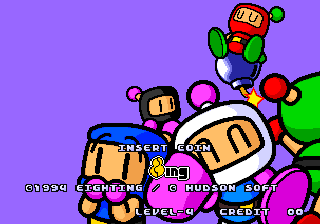
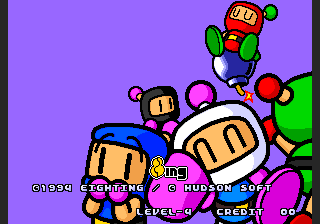
Intro Animation

Changed region(s): [[0.0625, 0.0, 1.0, 1.0], [0.0, 0.0, 0.0312, 1.0], [0.375, 0.375, 0.4688, 0.5938]]

diff --git a/Bomberman Project/Project_5_Solution/Source/SceneIntro.cpp b/Bomberman Project/Project_5_Solution/Source/SceneIntro.cpp
@@ -9,10 +9,17 @@
 #include "StudioNames.h"
 #include "SDL/include/SDL_scancode.h"
 #include "SDL/include/SDL.h"
+#include "SDL_mixer/include/SDL_mixer.h"
+#pragma comment( lib, "SDL_mixer/libx86/SDL2_mixer.lib" )
 
 SceneIntro::SceneIntro(bool startEnabled) : Module(startEnabled)
 {
-
+	Blink.PushBack({ 0,40,96,8 });
+	Blink.PushBack({ 0,40,96,8 });
+	Blink.PushBack({ 0,40,96,8 });
+	Blink.PushBack({ 0,32,96,8 });
+	Blink.loop = true;
+	Blink.speed = 0.25f;
 }
 
 SceneIntro::~SceneIntro()
@@ -26,9 +33,20 @@ bool SceneIntro::Start()
 	LOG("Loading background assets");
 
 	bool ret = true;
-
+	Starting1 = App->textures->Load("Assets/IntroAnim/Starting1.png");
+	Starting2 = App->textures->Load("Assets/IntroAnim/Starting2.png");
+	Starting3 = App->textures->Load("Assets/IntroAnim/Starting3.png");
+	Starting4 = App->textures->Load("Assets/IntroAnim/Starting4.png");
+	Starting5 = App->textures->Load("Assets/IntroAnim/Starting5.png");
+	Starting6 = App->textures->Load("Assets/IntroAnim/Starting6.png");
+	Starting7 = App->textures->Load("Assets/IntroAnim/Starting7.png");
+	Starting8 = App->textures->Load("Assets/IntroAnim/Starting8.png");
+	Starting9 = App->textures->Load("Assets/IntroAnim/Starting9.png");
 	bgTexture = App->textures->Load("Assets/StartingScreen.png");
 	App->audio->PlayMusic("Assets/audio/02_Title.ogg", 1.0f); 
+	sfx_explosion = App->audio->LoadFx("Assets/sfx/sfx_start_explosion.wav");
+	InsertA = App->textures->Load("Assets/Numeros+SpritesLetras.png");
+	AnimBlink= &Blink;
 
 	App->render->camera.x = 0;
 	App->render->camera.y = 0;
@@ -43,6 +61,7 @@ update_status SceneIntro::Update()
 		App->fade->FadeToBlack(this, (Module*)App->scene, 70);
 	}
 
+	AnimBlink->Update();
 	return update_status::UPDATE_CONTINUE;
 }
 
@@ -51,6 +70,49 @@ update_status SceneIntro::PostUpdate()
 {
 	// Draw everything --------------------------------------
 	App->render->Blit(bgTexture, 0, 0, NULL);
+	if (!timerStarted) {
+		timerStarted = true;
+		timerStart = SDL_GetTicks();
+	}
+	if (SDL_GetTicks() -  timerStart > 4000 && SDL_GetTicks() - timerStart < 4300) {
+		
+		App->render->Blit(Starting1, 0, 0, NULL);
+		App->audio->PlayFx(sfx_explosion);
+	}
+	else if (SDL_GetTicks() - timerStart > 4300) {
 
+		App->render->Blit(Starting2, 0, 0, NULL);
+	}
+	if (SDL_GetTicks() - timerStart > 4500) {
+
+		App->render->Blit(Starting3, 0, 0, NULL);
+	}
+	if (SDL_GetTicks() - timerStart > 4700) {
+
+		App->render->Blit(Starting4, 0, 0, NULL);
+	}
+	if (SDL_GetTicks() - timerStart > 4900) {
+
+		App->render->Blit(Starting5, 0, 0, NULL);
+	}
+	if (SDL_GetTicks() - timerStart > 5100) {
+
+		App->render->Blit(Starting6, 0, 0, NULL);
+	}
+	if (SDL_GetTicks() - timerStart > 5300) {
+
+		App->render->Blit(Starting7, 0, 0, NULL);
+	}
+	if (SDL_GetTicks() - timerStart > 5500) {
+
+		App->render->Blit(Starting8, 0, 0, NULL);
+	}
+	if (SDL_GetTicks() - timerStart > 5700) {
+
+		App->render->Blit(Starting9, 0, 0, NULL);
+		App->fade->FadeToBlack(this, (Module*)App->scene, 70);
+	}
+	rectBlink = AnimBlink ->GetCurrentFrame();
+	App->render->Blit(InsertA, 110, 140, &rectBlink);
 	return update_status::UPDATE_CONTINUE;
 }

diff --git a/Bomberman Project/Project_5_Solution/Source/SceneIntro.h b/Bomberman Project/Project_5_Solution/Source/SceneIntro.h
@@ -30,6 +30,24 @@ public:
 public:
 	// The scene sprite sheet loaded into an SDL_Texture
 	SDL_Texture* bgTexture = nullptr;
+	SDL_Texture* InsertA = nullptr;
+	SDL_Texture* Starting1 = nullptr;
+	SDL_Texture* Starting2 = nullptr;
+	SDL_Texture* Starting3 = nullptr;
+	SDL_Texture* Starting4 = nullptr;
+	SDL_Texture* Starting5 = nullptr;
+	SDL_Texture* Starting6 = nullptr;
+	SDL_Texture* Starting7 = nullptr;
+	SDL_Texture* Starting8 = nullptr;
+	SDL_Texture* Starting9 = nullptr;
+	Animation* AnimBlink;
+	Animation Blink;
+	SDL_Rect rectBlink;
+
+	Uint32 timerStart = 0;
+	bool timerStarted = false;
+
+	uint sfx_explosion = 0;
 };
 
 #endif
